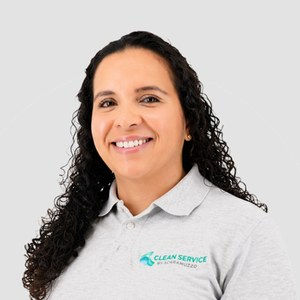
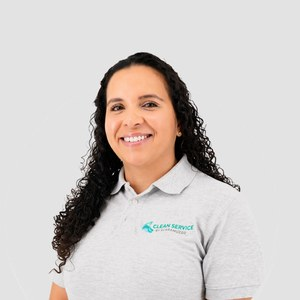
Zeitmitteilung: Porträts rausgezoomt, Fotos grösser, ab 4 Personen Namen unter den Fotos
Claude-Session: https://claude.ai/code/session_01UYUrdhYGSg6xUp5EEkhjBW

Changed region(s): [[0.06, 0.09, 0.9, 1.0], [0.66, 0.66, 0.69, 0.69], [0.63, 0.69, 0.66, 0.72]]

diff --git a/index.html b/index.html
@@ -4376,16 +4376,19 @@ function teamBlockHtml(o){
   const m = teamMembersFor(o); if(!m.length) return '';
   const esc = v=>String(v).replace(/[&<>"]/g,c=>({'&':'&amp;','<':'&lt;','>':'&gt;','"':'&quot;'}[c]));
   const pic = p=> TEAM_PHOTOS.includes(p.key)
-    ? `<img src="${TEAM_PHOTO_BASE}${p.key}.jpg" width="54" height="54" alt="${esc(p.name)}" style="display:block;width:54px;height:54px;border-radius:50%;border:2px solid #ffffff">`
-    : `<div style="width:54px;height:54px;line-height:54px;border-radius:50%;border:2px solid #ffffff;background:#71B6C6;color:#ffffff;font-weight:bold;font-size:17px;text-align:center">${esc(p.name[0].toUpperCase())}</div>`;
+    ? `<img src="${TEAM_PHOTO_BASE}${p.key}.jpg" width="62" height="62" alt="${esc(p.name)}" style="display:block;width:62px;height:62px;border-radius:50%;border:2px solid #ffffff">`
+    : `<div style="width:62px;height:62px;line-height:62px;border-radius:50%;border:2px solid #ffffff;background:#71B6C6;color:#ffffff;font-weight:bold;font-size:17px;text-align:center">${esc(p.name[0].toUpperCase())}</div>`;
   const names = m.length>1 ? m.slice(0,-1).map(p=>p.name).join(', ') + ' und ' + m[m.length-1].name : m[0].name;
   return `
                 <tr><td style="padding:14px 0 0"><div style="border-top:1px solid #dde6e8;height:0;line-height:0;font-size:0">&nbsp;</div></td></tr>
                 <tr><td style="padding:12px 0 0">
+                  ${m.length>3 ? `<div style="color:#767676;font-size:11.5px;line-height:1.45;margin:0 0 8px">Bei Ihnen im Einsatz</div>
                   <table role="presentation" cellpadding="0" cellspacing="0" style="border-collapse:collapse"><tr>
+                    ${m.map(p=>`<td style="padding:0 6px 0 0;vertical-align:top;text-align:center;font-size:11.5px;color:#3C3C3B;font-weight:bold">${pic(p)}<div style="padding-top:4px">${esc(p.name)}</div></td>`).join('')}
+                  </tr></table>` : `<table role="presentation" cellpadding="0" cellspacing="0" style="border-collapse:collapse"><tr>
                     ${m.map(p=>`<td style="padding:0 4px 0 0;vertical-align:middle">${pic(p)}</td>`).join('')}
                     <td style="padding:0 0 0 10px;vertical-align:middle;line-height:1.45"><div style="color:#767676;font-size:11.5px">Bei Ihnen im Einsatz</div><div style="color:#3C3C3B;font-weight:bold;font-size:13px">${esc(names)}</div></td>
-                  </tr></table>
+                  </tr></table>`}
                 </td></tr>`;
 }
 function buildTimeNotificationEmail(o){
